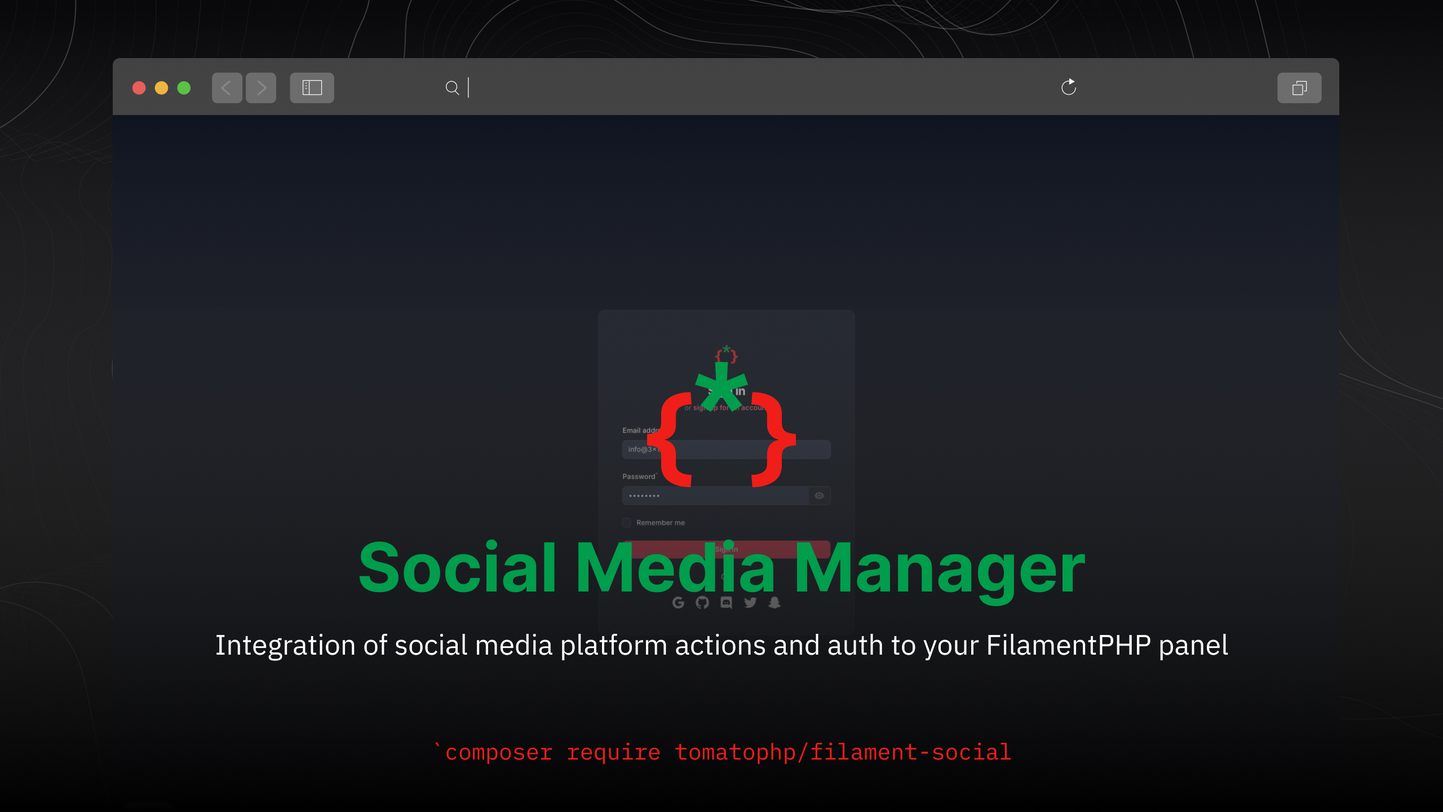
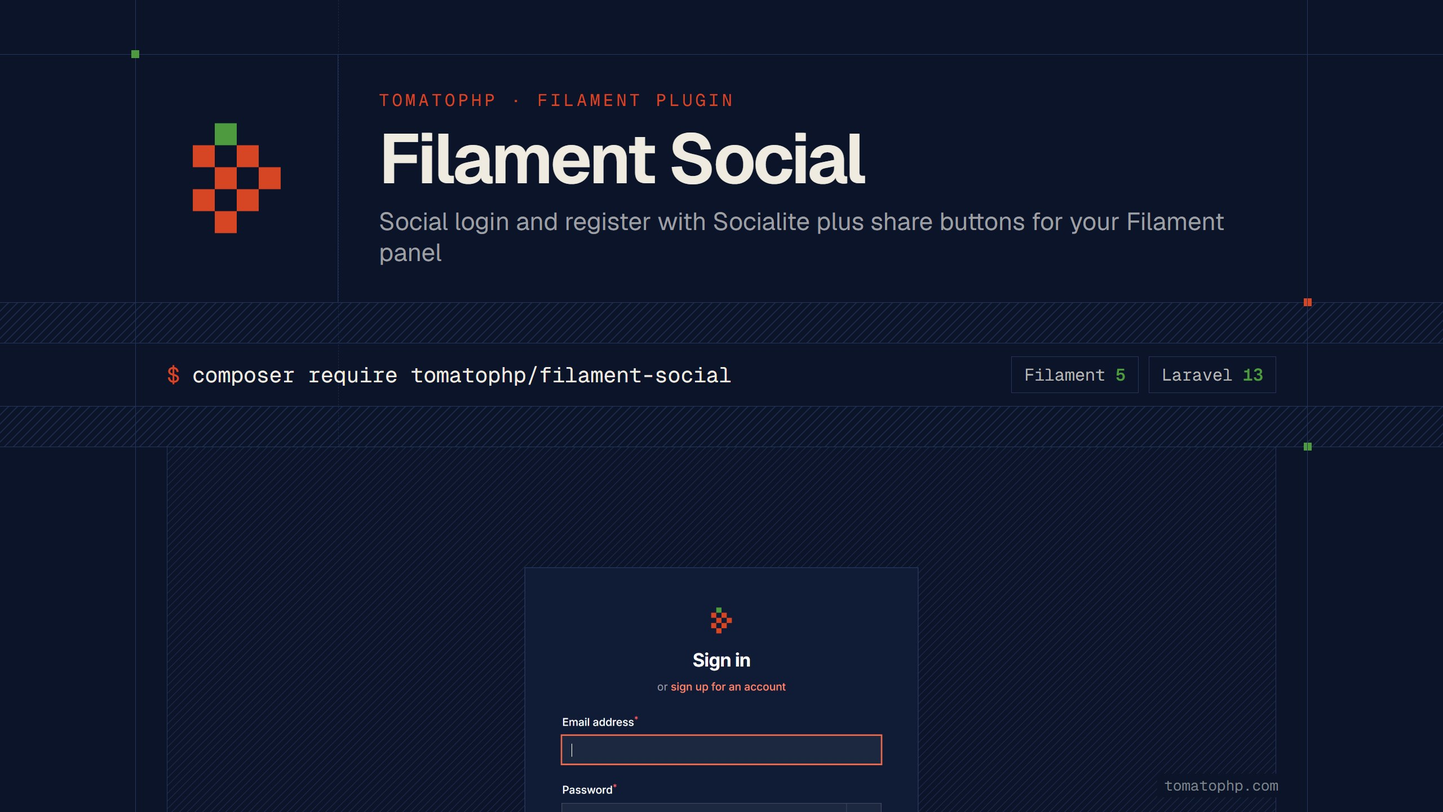
Refresh the cover, screenshots and docs for v5; render package views without Tailwind utilities

diff --git a/resources/views/actions/social-share.blade.php b/resources/views/actions/social-share.blade.php
@@ -16,80 +16,80 @@
 
 @if($inline)
     <div class="my-4">
-        <div class="mt-4 flex flex-wrap justify-center gap-4 mx-4 share-btn" @if(filled($shareUrl)) data-url="{{ $shareUrl }}" @endif @if(filled($shareTitle)) data-title="{{ $shareTitle }}" @endif>
+        <div class="share-btn" style="margin: 1rem 1rem 0; display: flex; flex-wrap: wrap; justify-content: center; gap: 1rem;" @if(filled($shareUrl)) data-url="{{ $shareUrl }}" @endif @if(filled($shareTitle)) data-title="{{ $shareTitle }}" @endif>
             @if($facebook)
-                <a x-tooltip="{content: '{{ trans('filament-social::messages.share.networks.facebook') }}', theme: $store.theme}" style="background-color: #1e40af; color: white" class="cursor-pointer px-4 py-2 rounded-lg flex justify-center gap-2" data-id="fb">
-                    <div class="flex flex-col justify-center items-center">
-                        <x-icon name="bxl-facebook-square" class="w-5 h-5" />
+                <a x-tooltip="{content: '{{ trans('filament-social::messages.share.networks.facebook') }}', theme: $store.theme}" style="background-color: #1e40af; color: white; cursor: pointer; padding: 0.5rem 1rem; border-radius: 0.5rem; display: flex; justify-content: center; gap: 0.5rem;" data-id="fb">
+                    <div style="display: flex; flex-direction: column; justify-content: center; align-items: center;">
+                        <x-icon name="bxl-facebook-square" style="width: 1.25rem; height: 1.25rem;" />
                     </div>
                 </a>
             @endif
             @if($twitter)
-                <a x-tooltip="{content: '{{ trans('filament-social::messages.share.networks.twitter') }}', theme: $store.theme}"  style="background-color: #1DA1F2; color: white" class="cursor-pointer px-4 py-2 rounded-lg flex justify-center gap-2" data-id="tw">
-                        <div class="flex flex-col justify-center items-center">
-                            <x-icon name="bxl-twitter" class="w-5 h-5" />
+                <a x-tooltip="{content: '{{ trans('filament-social::messages.share.networks.twitter') }}', theme: $store.theme}"  style="background-color: #1DA1F2; color: white; cursor: pointer; padding: 0.5rem 1rem; border-radius: 0.5rem; display: flex; justify-content: center; gap: 0.5rem;" data-id="tw">
+                        <div style="display: flex; flex-direction: column; justify-content: center; align-items: center;">
+                            <x-icon name="bxl-twitter" style="width: 1.25rem; height: 1.25rem;" />
                         </div>
                     </a>
             @endif
             @if($reddit)
-                <a x-tooltip="{content: '{{ trans('filament-social::messages.share.networks.reddit') }}', theme: $store.theme}"  style="background-color: #FF8b60; color: white" class="cursor-pointer px-4 py-2 rounded-lg flex justify-center gap-2" data-id="re">
-                    <div class="flex flex-col justify-center items-center">
-                        <x-icon name="bxl-reddit" class="w-5 h-5" />
+                <a x-tooltip="{content: '{{ trans('filament-social::messages.share.networks.reddit') }}', theme: $store.theme}"  style="background-color: #FF8b60; color: white; cursor: pointer; padding: 0.5rem 1rem; border-radius: 0.5rem; display: flex; justify-content: center; gap: 0.5rem;" data-id="re">
+                    <div style="display: flex; flex-direction: column; justify-content: center; align-items: center;">
+                        <x-icon name="bxl-reddit" style="width: 1.25rem; height: 1.25rem;" />
                     </div>
                 </a>
             @endif
             @if($pinterest)
-                <a x-tooltip="{content: '{{ trans('filament-social::messages.share.networks.pinterest') }}', theme: $store.theme}"  style="background-color: #E60023; color: white" class="cursor-pointer px-4 py-2 rounded-lg flex justify-center gap-2" data-id="pi">
-                    <div class="flex flex-col justify-center items-center">
-                        <x-icon name="bxl-pinterest" class="w-5 h-5" />
+                <a x-tooltip="{content: '{{ trans('filament-social::messages.share.networks.pinterest') }}', theme: $store.theme}"  style="background-color: #E60023; color: white; cursor: pointer; padding: 0.5rem 1rem; border-radius: 0.5rem; display: flex; justify-content: center; gap: 0.5rem;" data-id="pi">
+                    <div style="display: flex; flex-direction: column; justify-content: center; align-items: center;">
+                        <x-icon name="bxl-pinterest" style="width: 1.25rem; height: 1.25rem;" />
                     </div>
                 </a>
             @endif
             @if($linkedin)
-                <a x-tooltip="{content: '{{ trans('filament-social::messages.share.networks.linkedin') }}', theme: $store.theme}"  style="background-color: #0077B5; color: white" class="cursor-pointer px-4 py-2 rounded-lg flex justify-center gap-2" data-id="in">
-                    <div class="flex flex-col justify-center items-center">
-                        <x-icon name="bxl-linkedin" class="w-5 h-5" />
+                <a x-tooltip="{content: '{{ trans('filament-social::messages.share.networks.linkedin') }}', theme: $store.theme}"  style="background-color: #0077B5; color: white; cursor: pointer; padding: 0.5rem 1rem; border-radius: 0.5rem; display: flex; justify-content: center; gap: 0.5rem;" data-id="in">
+                    <div style="display: flex; flex-direction: column; justify-content: center; align-items: center;">
+                        <x-icon name="bxl-linkedin" style="width: 1.25rem; height: 1.25rem;" />
                     </div>
                 </a>
             @endif
             @if($telegram)
-                <a x-tooltip="{content: '{{ trans('filament-social::messages.share.networks.telegram') }}', theme: $store.theme}" style="background-color: #24A1DE; color: white" class="cursor-pointer px-4 py-2 rounded-lg flex justify-center gap-2" data-id="tg">
-                        <div class="flex flex-col justify-center items-center">
-                            <x-icon name="bxl-telegram" class="w-5 h-5" />
+                <a x-tooltip="{content: '{{ trans('filament-social::messages.share.networks.telegram') }}', theme: $store.theme}" style="background-color: #24A1DE; color: white; cursor: pointer; padding: 0.5rem 1rem; border-radius: 0.5rem; display: flex; justify-content: center; gap: 0.5rem;" data-id="tg">
+                        <div style="display: flex; flex-direction: column; justify-content: center; align-items: center;">
+                            <x-icon name="bxl-telegram" style="width: 1.25rem; height: 1.25rem;" />
                         </div>
                     </a>
             @endif
             @if($whatsapp)
-                <a x-tooltip="{content: '{{ trans('filament-social::messages.share.networks.whatsapp') }}', theme: $store.theme}" style="background-color: #075E54; color: white" class="cursor-pointer px-4 py-2 rounded-lg flex justify-center gap-2" data-id="wa">
-                <div class="flex flex-col justify-center items-center">
-                    <x-icon name="bxl-whatsapp" class="w-5 h-5" />
+                <a x-tooltip="{content: '{{ trans('filament-social::messages.share.networks.whatsapp') }}', theme: $store.theme}" style="background-color: #075E54; color: white; cursor: pointer; padding: 0.5rem 1rem; border-radius: 0.5rem; display: flex; justify-content: center; gap: 0.5rem;" data-id="wa">
+                <div style="display: flex; flex-direction: column; justify-content: center; align-items: center;">
+                    <x-icon name="bxl-whatsapp" style="width: 1.25rem; height: 1.25rem;" />
                 </div>
             </a>
             @endif
             @if($copy)
-                <a x-tooltip="{content: '{{ trans('filament-social::messages.share.networks.copy') }}', theme: $store.theme}"   style="--c-400:var(--danger-400);--c-500:var(--danger-500);--c-600:var(--danger-600);" class="bg-custom-600 text-white cursor-pointer px-4 py-2 rounded-lg flex justify-center gap-2" data-id="wa">
-                <div class="flex flex-col justify-center items-center">
-                    <x-icon name="bxs-copy" class="w-5 h-5" />
+                <a x-tooltip="{content: '{{ trans('filament-social::messages.share.networks.copy') }}', theme: $store.theme}"   style="--c-400:var(--danger-400);--c-500:var(--danger-500);--c-600:var(--danger-600); background-color: var(--c-600); color: white; cursor: pointer; padding: 0.5rem 1rem; border-radius: 0.5rem; display: flex; justify-content: center; gap: 0.5rem;" data-id="wa">
+                <div style="display: flex; flex-direction: column; justify-content: center; align-items: center;">
+                    <x-icon name="bxs-copy" style="width: 1.25rem; height: 1.25rem;" />
                 </div>
             </a>
             @endif
             @if($print)
-                <a x-tooltip="{content: '{{ trans('filament-social::messages.share.networks.print') }}', theme: $store.theme}" style="--c-400:var(--info-400);--c-500:var(--info-500);--c-600:var(--info-600);" class="bg-custom-600 text-white cursor-pointer px-4 py-2 rounded-lg flex justify-center gap-2" data-id="wa">
-                    <div class="flex flex-col justify-center items-center">
-                        <x-icon name="bxs-printer" class="w-5 h-5" />
+                <a x-tooltip="{content: '{{ trans('filament-social::messages.share.networks.print') }}', theme: $store.theme}" style="--c-400:var(--info-400);--c-500:var(--info-500);--c-600:var(--info-600); background-color: var(--c-600); color: white; cursor: pointer; padding: 0.5rem 1rem; border-radius: 0.5rem; display: flex; justify-content: center; gap: 0.5rem;" data-id="wa">
+                    <div style="display: flex; flex-direction: column; justify-content: center; align-items: center;">
+                        <x-icon name="bxs-printer" style="width: 1.25rem; height: 1.25rem;" />
                     </div>
                 </a>
             @endif
             @if($mail)
-                <a x-tooltip="{content: '{{ trans('filament-social::messages.share.networks.mail') }}', theme: $store.theme}"  style="--c-400:var(--warning-400);--c-500:var(--warning-500);--c-600:var(--warning-600);"  class="bg-custom-600 text-white cursor-pointer px-4 py-2 rounded-lg flex justify-center gap-2" data-id="wa">
-                    <div class="flex flex-col justify-center items-center">
-                        <x-icon name="bxs-envelope" class="w-5 h-5" />
+                <a x-tooltip="{content: '{{ trans('filament-social::messages.share.networks.mail') }}', theme: $store.theme}"  style="--c-400:var(--warning-400);--c-500:var(--warning-500);--c-600:var(--warning-600); background-color: var(--c-600); color: white; cursor: pointer; padding: 0.5rem 1rem; border-radius: 0.5rem; display: flex; justify-content: center; gap: 0.5rem;" data-id="wa">
+                    <div style="display: flex; flex-direction: column; justify-content: center; align-items: center;">
+                        <x-icon name="bxs-envelope" style="width: 1.25rem; height: 1.25rem;" />
                     </div>
                 </a>
             @endif
-            <a x-tooltip="{content: '{{ trans('filament-social::messages.share.networks.share') }}', theme: $store.theme}" style="--c-400:var(--primary-400);--c-500:var(--primary-500);--c-600:var(--primary-600);" class="bg-custom-600 text-white cursor-pointer px-4 py-2 rounded-lg flex justify-center gap-2" data-id="share">
-                <div class="flex flex-col justify-center items-center">
-                    <x-icon name="heroicon-s-share" class="w-5 h-5" />
+            <a x-tooltip="{content: '{{ trans('filament-social::messages.share.networks.share') }}', theme: $store.theme}" style="--c-400:var(--primary-400);--c-500:var(--primary-500);--c-600:var(--primary-600); background-color: var(--c-600); color: white; cursor: pointer; padding: 0.5rem 1rem; border-radius: 0.5rem; display: flex; justify-content: center; gap: 0.5rem;" data-id="share">
+                <div style="display: flex; flex-direction: column; justify-content: center; align-items: center;">
+                    <x-icon name="heroicon-s-share" style="width: 1.25rem; height: 1.25rem;" />
                 </div>
             </a>
         </div>

diff --git a/resources/views/components/views/social-share.blade.php b/resources/views/components/views/social-share.blade.php
@@ -1,79 +1,79 @@
 @if($inline)
     <div class="my-4">
-        <div class="mt-4 flex flex-wrap justify-center gap-4 mx-4 share-btn" @if(filled($shareUrl)) data-url="{{ $shareUrl }}" @endif @if(filled($shareTitle)) data-title="{{ $shareTitle }}" @endif>
+        <div class="share-btn" style="margin: 1rem 1rem 0; display: flex; flex-wrap: wrap; justify-content: center; gap: 1rem;" @if(filled($shareUrl)) data-url="{{ $shareUrl }}" @endif @if(filled($shareTitle)) data-title="{{ $shareTitle }}" @endif>
             @if($facebook)
-                <a x-tooltip="{content: '{{ trans('filament-social::messages.share.networks.facebook') }}', theme: $store.theme}" style="background-color: #1e40af; color: white" class="cursor-pointer px-4 py-2 rounded-lg flex justify-center gap-2" data-id="fb">
-                    <div class="flex flex-col justify-center items-center">
-                        <x-icon name="bxl-facebook-square" class="w-5 h-5" />
+                <a x-tooltip="{content: '{{ trans('filament-social::messages.share.networks.facebook') }}', theme: $store.theme}" style="background-color: #1e40af; color: white; cursor: pointer; padding: 0.5rem 1rem; border-radius: 0.5rem; display: flex; justify-content: center; gap: 0.5rem;" data-id="fb">
+                    <div style="display: flex; flex-direction: column; justify-content: center; align-items: center;">
+                        <x-icon name="bxl-facebook-square" style="width: 1.25rem; height: 1.25rem;" />
                     </div>
                 </a>
             @endif
             @if($twitter)
-                <a x-tooltip="{content: '{{ trans('filament-social::messages.share.networks.twitter') }}', theme: $store.theme}"  style="background-color: #1DA1F2; color: white" class="cursor-pointer px-4 py-2 rounded-lg flex justify-center gap-2" data-id="tw">
-                    <div class="flex flex-col justify-center items-center">
-                        <x-icon name="bxl-twitter" class="w-5 h-5" />
+                <a x-tooltip="{content: '{{ trans('filament-social::messages.share.networks.twitter') }}', theme: $store.theme}"  style="background-color: #1DA1F2; color: white; cursor: pointer; padding: 0.5rem 1rem; border-radius: 0.5rem; display: flex; justify-content: center; gap: 0.5rem;" data-id="tw">
+                    <div style="display: flex; flex-direction: column; justify-content: center; align-items: center;">
+                        <x-icon name="bxl-twitter" style="width: 1.25rem; height: 1.25rem;" />
                     </div>
                 </a>
             @endif
             @if($reddit)
-                <a x-tooltip="{content: '{{ trans('filament-social::messages.share.networks.reddit') }}', theme: $store.theme}"  style="background-color: #FF8b60; color: white" class="cursor-pointer px-4 py-2 rounded-lg flex justify-center gap-2" data-id="re">
-                    <div class="flex flex-col justify-center items-center">
-                        <x-icon name="bxl-reddit" class="w-5 h-5" />
+                <a x-tooltip="{content: '{{ trans('filament-social::messages.share.networks.reddit') }}', theme: $store.theme}"  style="background-color: #FF8b60; color: white; cursor: pointer; padding: 0.5rem 1rem; border-radius: 0.5rem; display: flex; justify-content: center; gap: 0.5rem;" data-id="re">
+                    <div style="display: flex; flex-direction: column; justify-content: center; align-items: center;">
+                        <x-icon name="bxl-reddit" style="width: 1.25rem; height: 1.25rem;" />
                     </div>
                 </a>
             @endif
             @if($pinterest)
-                <a x-tooltip="{content: '{{ trans('filament-social::messages.share.networks.pinterest') }}', theme: $store.theme}"  style="background-color: #E60023; color: white" class="cursor-pointer px-4 py-2 rounded-lg flex justify-center gap-2" data-id="pi">
-                    <div class="flex flex-col justify-center items-center">
-                        <x-icon name="bxl-pinterest" class="w-5 h-5" />
+                <a x-tooltip="{content: '{{ trans('filament-social::messages.share.networks.pinterest') }}', theme: $store.theme}"  style="background-color: #E60023; color: white; cursor: pointer; padding: 0.5rem 1rem; border-radius: 0.5rem; display: flex; justify-content: center; gap: 0.5rem;" data-id="pi">
+                    <div style="display: flex; flex-direction: column; justify-content: center; align-items: center;">
+                        <x-icon name="bxl-pinterest" style="width: 1.25rem; height: 1.25rem;" />
                     </div>
                 </a>
             @endif
             @if($linkedin)
-                <a x-tooltip="{content: '{{ trans('filament-social::messages.share.networks.linkedin') }}', theme: $store.theme}"  style="background-color: #0077B5; color: white" class="cursor-pointer px-4 py-2 rounded-lg flex justify-center gap-2" data-id="in">
-                    <div class="flex flex-col justify-center items-center">
-                        <x-icon name="bxl-linkedin" class="w-5 h-5" />
+                <a x-tooltip="{content: '{{ trans('filament-social::messages.share.networks.linkedin') }}', theme: $store.theme}"  style="background-color: #0077B5; color: white; cursor: pointer; padding: 0.5rem 1rem; border-radius: 0.5rem; display: flex; justify-content: center; gap: 0.5rem;" data-id="in">
+                    <div style="display: flex; flex-direction: column; justify-content: center; align-items: center;">
+                        <x-icon name="bxl-linkedin" style="width: 1.25rem; height: 1.25rem;" />
                     </div>
                 </a>
             @endif
             @if($telegram)
-                <a x-tooltip="{content: '{{ trans('filament-social::messages.share.networks.telegram') }}', theme: $store.theme}" style="background-color: #24A1DE; color: white" class="cursor-pointer px-4 py-2 rounded-lg flex justify-center gap-2" data-id="tg">
-                    <div class="flex flex-col justify-center items-center">
-                        <x-icon name="bxl-telegram" class="w-5 h-5" />
+                <a x-tooltip="{content: '{{ trans('filament-social::messages.share.networks.telegram') }}', theme: $store.theme}" style="background-color: #24A1DE; color: white; cursor: pointer; padding: 0.5rem 1rem; border-radius: 0.5rem; display: flex; justify-content: center; gap: 0.5rem;" data-id="tg">
+                    <div style="display: flex; flex-direction: column; justify-content: center; align-items: center;">
+                        <x-icon name="bxl-telegram" style="width: 1.25rem; height: 1.25rem;" />
                     </div>
                 </a>
             @endif
             @if($whatsapp)
-                <a x-tooltip="{content: '{{ trans('filament-social::messages.share.networks.whatsapp') }}', theme: $store.theme}" style="background-color: #075E54; color: white" class="cursor-pointer px-4 py-2 rounded-lg flex justify-center gap-2" data-id="wa">
-                    <div class="flex flex-col justify-center items-center">
-                        <x-icon name="bxl-whatsapp" class="w-5 h-5" />
+                <a x-tooltip="{content: '{{ trans('filament-social::messages.share.networks.whatsapp') }}', theme: $store.theme}" style="background-color: #075E54; color: white; cursor: pointer; padding: 0.5rem 1rem; border-radius: 0.5rem; display: flex; justify-content: center; gap: 0.5rem;" data-id="wa">
+                    <div style="display: flex; flex-direction: column; justify-content: center; align-items: center;">
+                        <x-icon name="bxl-whatsapp" style="width: 1.25rem; height: 1.25rem;" />
                     </div>
                 </a>
             @endif
             @if($copy)
-                <a x-tooltip="{content: '{{ trans('filament-social::messages.share.networks.copy') }}', theme: $store.theme}"   style="--c-400:var(--danger-400);--c-500:var(--danger-500);--c-600:var(--danger-600);" class="bg-custom-600 text-white cursor-pointer px-4 py-2 rounded-lg flex justify-center gap-2" data-id="wa">
-                    <div class="flex flex-col justify-center items-center">
-                        <x-icon name="bxs-copy" class="w-5 h-5" />
+                <a x-tooltip="{content: '{{ trans('filament-social::messages.share.networks.copy') }}', theme: $store.theme}"   style="--c-400:var(--danger-400);--c-500:var(--danger-500);--c-600:var(--danger-600); background-color: var(--c-600); color: white; cursor: pointer; padding: 0.5rem 1rem; border-radius: 0.5rem; display: flex; justify-content: center; gap: 0.5rem;" data-id="wa">
+                    <div style="display: flex; flex-direction: column; justify-content: center; align-items: center;">
+                        <x-icon name="bxs-copy" style="width: 1.25rem; height: 1.25rem;" />
                     </div>
                 </a>
             @endif
             @if($print)
-                <a x-tooltip="{content: '{{ trans('filament-social::messages.share.networks.print') }}', theme: $store.theme}" style="--c-400:var(--info-400);--c-500:var(--info-500);--c-600:var(--info-600);" class="bg-custom-600 text-white cursor-pointer px-4 py-2 rounded-lg flex justify-center gap-2" data-id="wa">
-                    <div class="flex flex-col justify-center items-center">
-                        <x-icon name="bxs-printer" class="w-5 h-5" />
+                <a x-tooltip="{content: '{{ trans('filament-social::messages.share.networks.print') }}', theme: $store.theme}" style="--c-400:var(--info-400);--c-500:var(--info-500);--c-600:var(--info-600); background-color: var(--c-600); color: white; cursor: pointer; padding: 0.5rem 1rem; border-radius: 0.5rem; display: flex; justify-content: center; gap: 0.5rem;" data-id="wa">
+                    <div style="display: flex; flex-direction: column; justify-content: center; align-items: center;">
+                        <x-icon name="bxs-printer" style="width: 1.25rem; height: 1.25rem;" />
                     </div>
                 </a>
             @endif
             @if($mail)
-                <a x-tooltip="{content: '{{ trans('filament-social::messages.share.networks.mail') }}', theme: $store.theme}"  style="--c-400:var(--warning-400);--c-500:var(--warning-500);--c-600:var(--warning-600);"  class="bg-custom-600 text-white cursor-pointer px-4 py-2 rounded-lg flex justify-center gap-2" data-id="wa">
-                    <div class="flex flex-col justify-center items-center">
-                        <x-icon name="bxs-envelope" class="w-5 h-5" />
+                <a x-tooltip="{content: '{{ trans('filament-social::messages.share.networks.mail') }}', theme: $store.theme}"  style="--c-400:var(--warning-400);--c-500:var(--warning-500);--c-600:var(--warning-600); background-color: var(--c-600); color: white; cursor: pointer; padding: 0.5rem 1rem; border-radius: 0.5rem; display: flex; justify-content: center; gap: 0.5rem;" data-id="wa">
+                    <div style="display: flex; flex-direction: column; justify-content: center; align-items: center;">
+                        <x-icon name="bxs-envelope" style="width: 1.25rem; height: 1.25rem;" />
                     </div>
                 </a>
             @endif
-            <a x-tooltip="{content: '{{ trans('filament-social::messages.share.networks.share') }}', theme: $store.theme}" style="--c-400:var(--primary-400);--c-500:var(--primary-500);--c-600:var(--primary-600);" class="bg-custom-600 text-white cursor-pointer px-4 py-2 rounded-lg flex justify-center gap-2" data-id="share">
-                <div class="flex flex-col justify-center items-center">
-                    <x-icon name="heroicon-s-share" class="w-5 h-5" />
+            <a x-tooltip="{content: '{{ trans('filament-social::messages.share.networks.share') }}', theme: $store.theme}" style="--c-400:var(--primary-400);--c-500:var(--primary-500);--c-600:var(--primary-600); background-color: var(--c-600); color: white; cursor: pointer; padding: 0.5rem 1rem; border-radius: 0.5rem; display: flex; justify-content: center; gap: 0.5rem;" data-id="share">
+                <div style="display: flex; flex-direction: column; justify-content: center; align-items: center;">
+                    <x-icon name="heroicon-s-share" style="width: 1.25rem; height: 1.25rem;" />
                 </div>
             </a>
         </div>

diff --git a/resources/views/components/social-login.blade.php b/resources/views/components/social-login.blade.php
@@ -3,19 +3,21 @@
         ->filter(fn (string $provider): bool => filled(config('services.' . str($provider)->before('-') . '.client_id')));
 @endphp
 
+{{-- Inline styles: package views are not scanned by the panel's Tailwind build. --}}
 @if ($providers->isNotEmpty())
-    <div class="flex flex-col gap-4">
-        <div class="text-center text-sm text-gray-500 dark:text-gray-400">
+    <div style="display: flex; flex-direction: column; gap: 1rem;">
+        <div class="fi-color-gray" style="text-align: center; font-size: 0.875rem; opacity: 0.8;">
             {{ trans('filament-social::messages.login.or') }}
         </div>
-        <div class="flex justify-center gap-4">
+        <div style="display: flex; justify-content: center; gap: 1rem;">
             @foreach ($providers as $provider)
                 @php($name = (string) str($provider)->before('-'))
                 <a
                     x-tooltip="{ content: @js(trans('filament-social::messages.login.with', ['provider' => ucfirst($name)])), theme: $store.theme }"
                     href="{{ route('login.provider', ['provider' => $provider]) . '?url=' . url()->current() }}"
+                    style="display: inline-flex;"
                 >
-                    <x-icon name="bxl-{{ $name }}" class="h-8 w-8" />
+                    <x-icon name="bxl-{{ $name }}" style="width: 2rem; height: 2rem;" />
                 </a>
             @endforeach
         </div>

diff --git a/CHANGELOG.md b/CHANGELOG.md
@@ -3,7 +3,15 @@
 - Requires `filament/filament` ^5.0 (Livewire 4)
 - Supports Laravel 12 and 13, PHP 8.2+
 - Socialite providers bumped to their Laravel 13 compatible releases (`revolution/socialite-discord` ^1.5, `socialiteproviders/*` 4.x / 5.x / 6.x)
-- Social login and register pages ported to the Filament v5 auth pages
-- Social share actions consolidated on `Filament\Actions\Action`
+- Social login and register pages ported to the Filament v5 auth pages; the social buttons are rendered below the form (the old `pages/login` and `pages/register` views are gone, republish views if you customised them)
+- Show a translated "Or login with" separator instead of `cms::messages.login.or` (#1)
+- Provider tooltips are translated and translations publish to `lang_path('vendor/filament-social')`, so published overrides are loaded (#2)
+- Share a specific url and title: `SocialShareAction::make()->shareUrl(fn ($record) => ...)->shareTitle(...)` and `<x-filament-social-share url="..." title="..." />` (#3)
+- The social callback no longer writes a `data` column on the users table (returning users can log in again), stores the provider profile on `social_auth_users`, keeps usernames unique and only notifies Discord when the Discord driver is installed
+- The login buttons and share buttons use inline styles, so they render correctly without adding the package views to your Tailwind 4 theme sources
+- The auth controller extends `Illuminate\Routing\Controller` instead of the application controller
+- Social share actions consolidated on `Filament\Actions\Action`; the Form, Table and Notifications classes remain as aliases
+- `filament-social:install` only runs the migrations (it no longer runs yarn in your project)
+- Removed the unused Twitter facade and services (they needed `abraham/twitteroauth`, which was never required)
 - Added a Pest test suite and CI for PHP 8.3 / 8.4 on Laravel 12 / 13
 - The Filament v3 line continues on the `v3` branch

diff --git a/README.md b/README.md
@@ -10,9 +10,10 @@ Integration of social media platform actions and auth to your FilamentPHP panel
 
 ## Screenshots
 
-![Dark](https://raw.githubusercontent.com/tomatophp/filament-social/master/arts/dark.png)
-![Register](https://raw.githubusercontent.com/tomatophp/filament-social/master/arts/register.png)
-![Login](https://raw.githubusercontent.com/tomatophp/filament-social/master/arts/register.png)
+![Login](https://raw.githubusercontent.com/tomatophp/filament-social/master/arts/login-light.png)
+![Login Dark](https://raw.githubusercontent.com/tomatophp/filament-social/master/arts/login-dark.png)
+![Register](https://raw.githubusercontent.com/tomatophp/filament-social/master/arts/register-light.png)
+![Register Dark](https://raw.githubusercontent.com/tomatophp/filament-social/master/arts/register-dark.png)
 ![Share Buttons](https://raw.githubusercontent.com/tomatophp/filament-social/master/arts/share-buttons.png)
 
 ## Features
@@ -174,6 +175,22 @@ public function actions(): array
 ```
 
 you can use the button as a dropdown or you can use it as inline icons buttons using `->inline()` method
+
+### Share a specific url
+
+by default the buttons share the current page, to share a specific record (for example a post from a table row) pass the url and title
+
+```php
+SocialShareAction::make()
+    ->facebook()
+    ->twitter()
+    ->shareUrl(fn (Post $record): string => route('posts.show', $record))
+    ->shareTitle(fn (Post $record): string => $record->title)
+```
+
+```html
+<x-filament-social-share inline facebook twitter url="{{ route('posts.show', $post) }}" title="{{ $post->title }}" />
+```
 
 
 ## Social Auth Events
